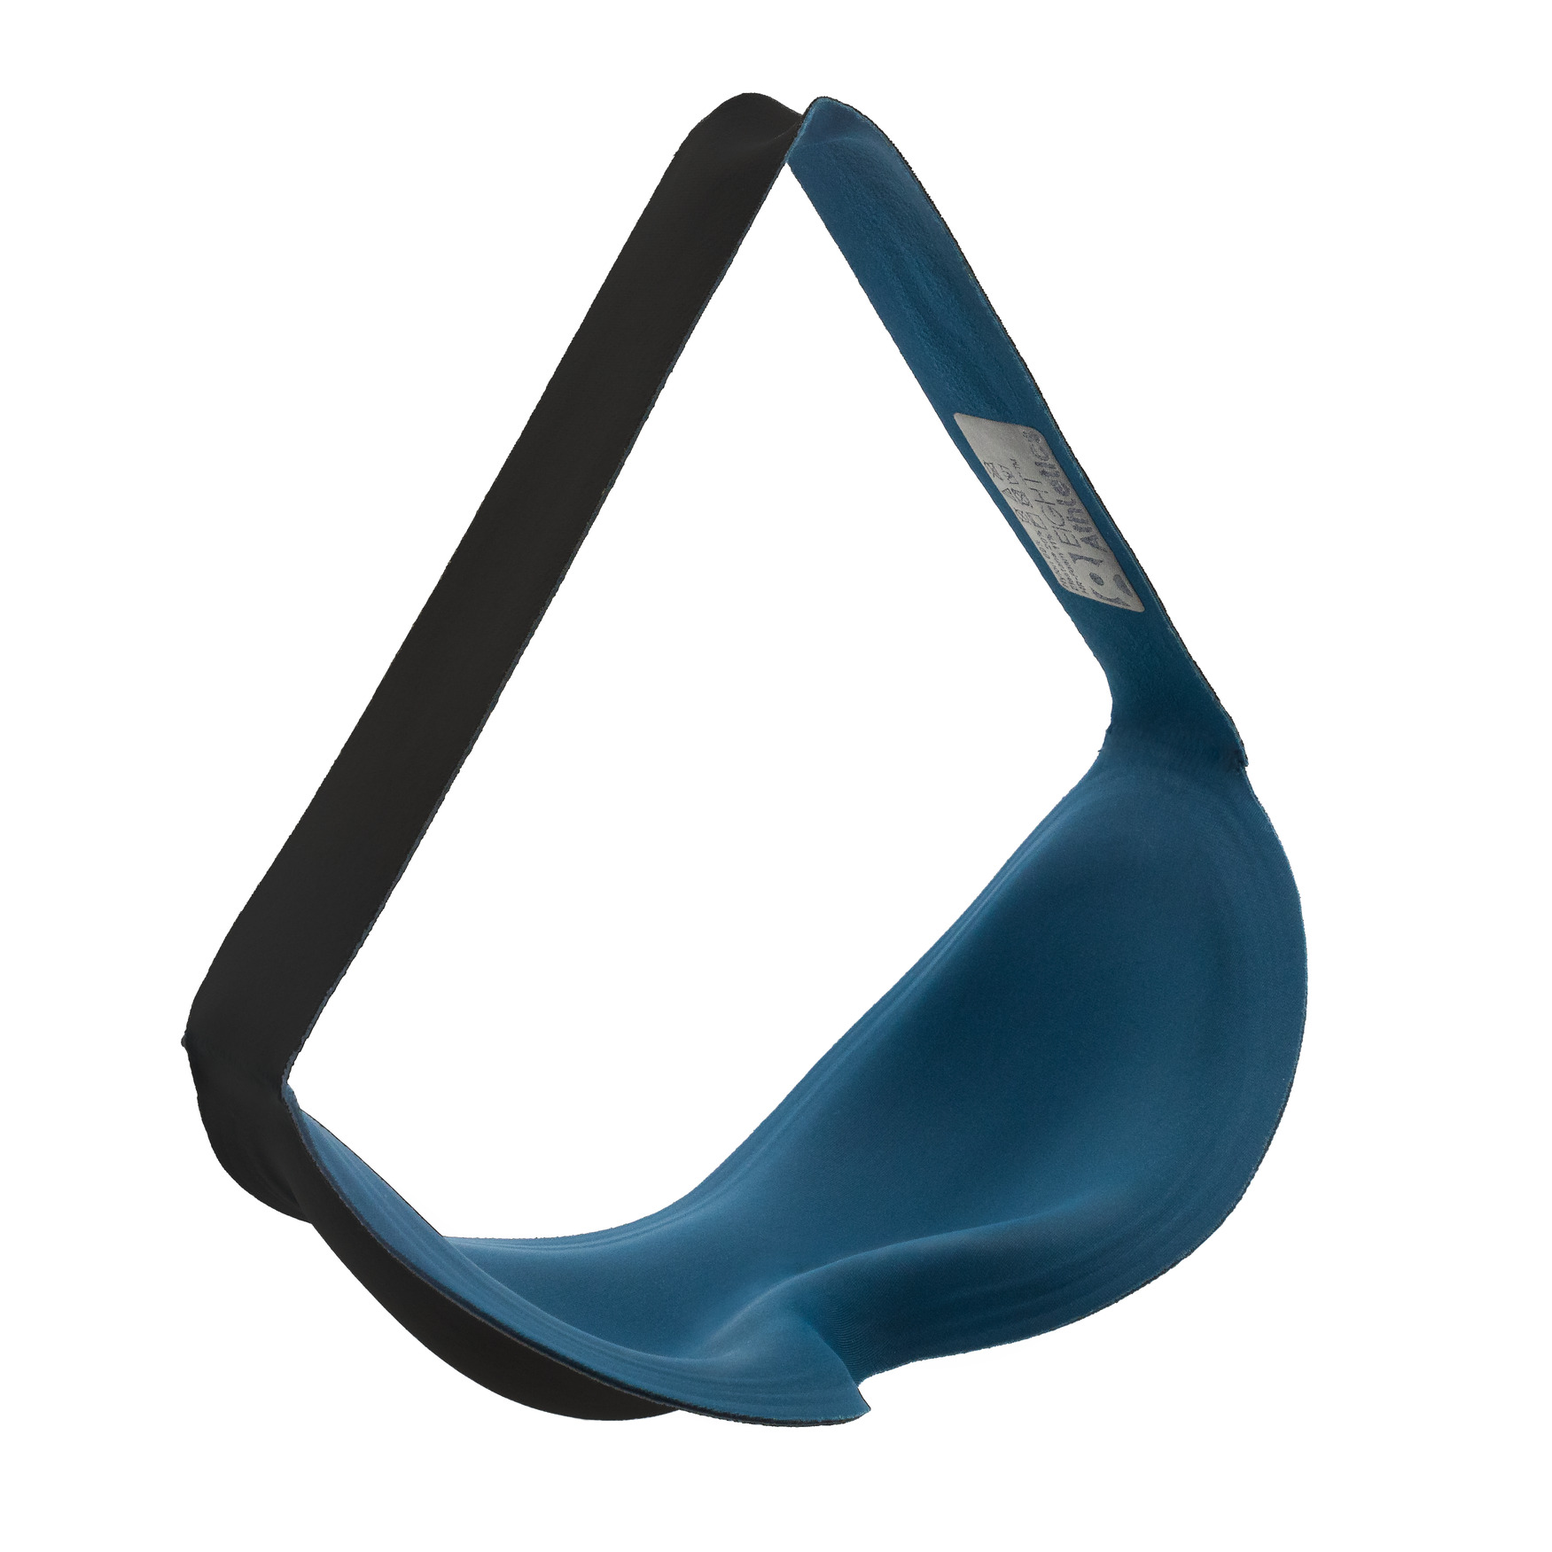
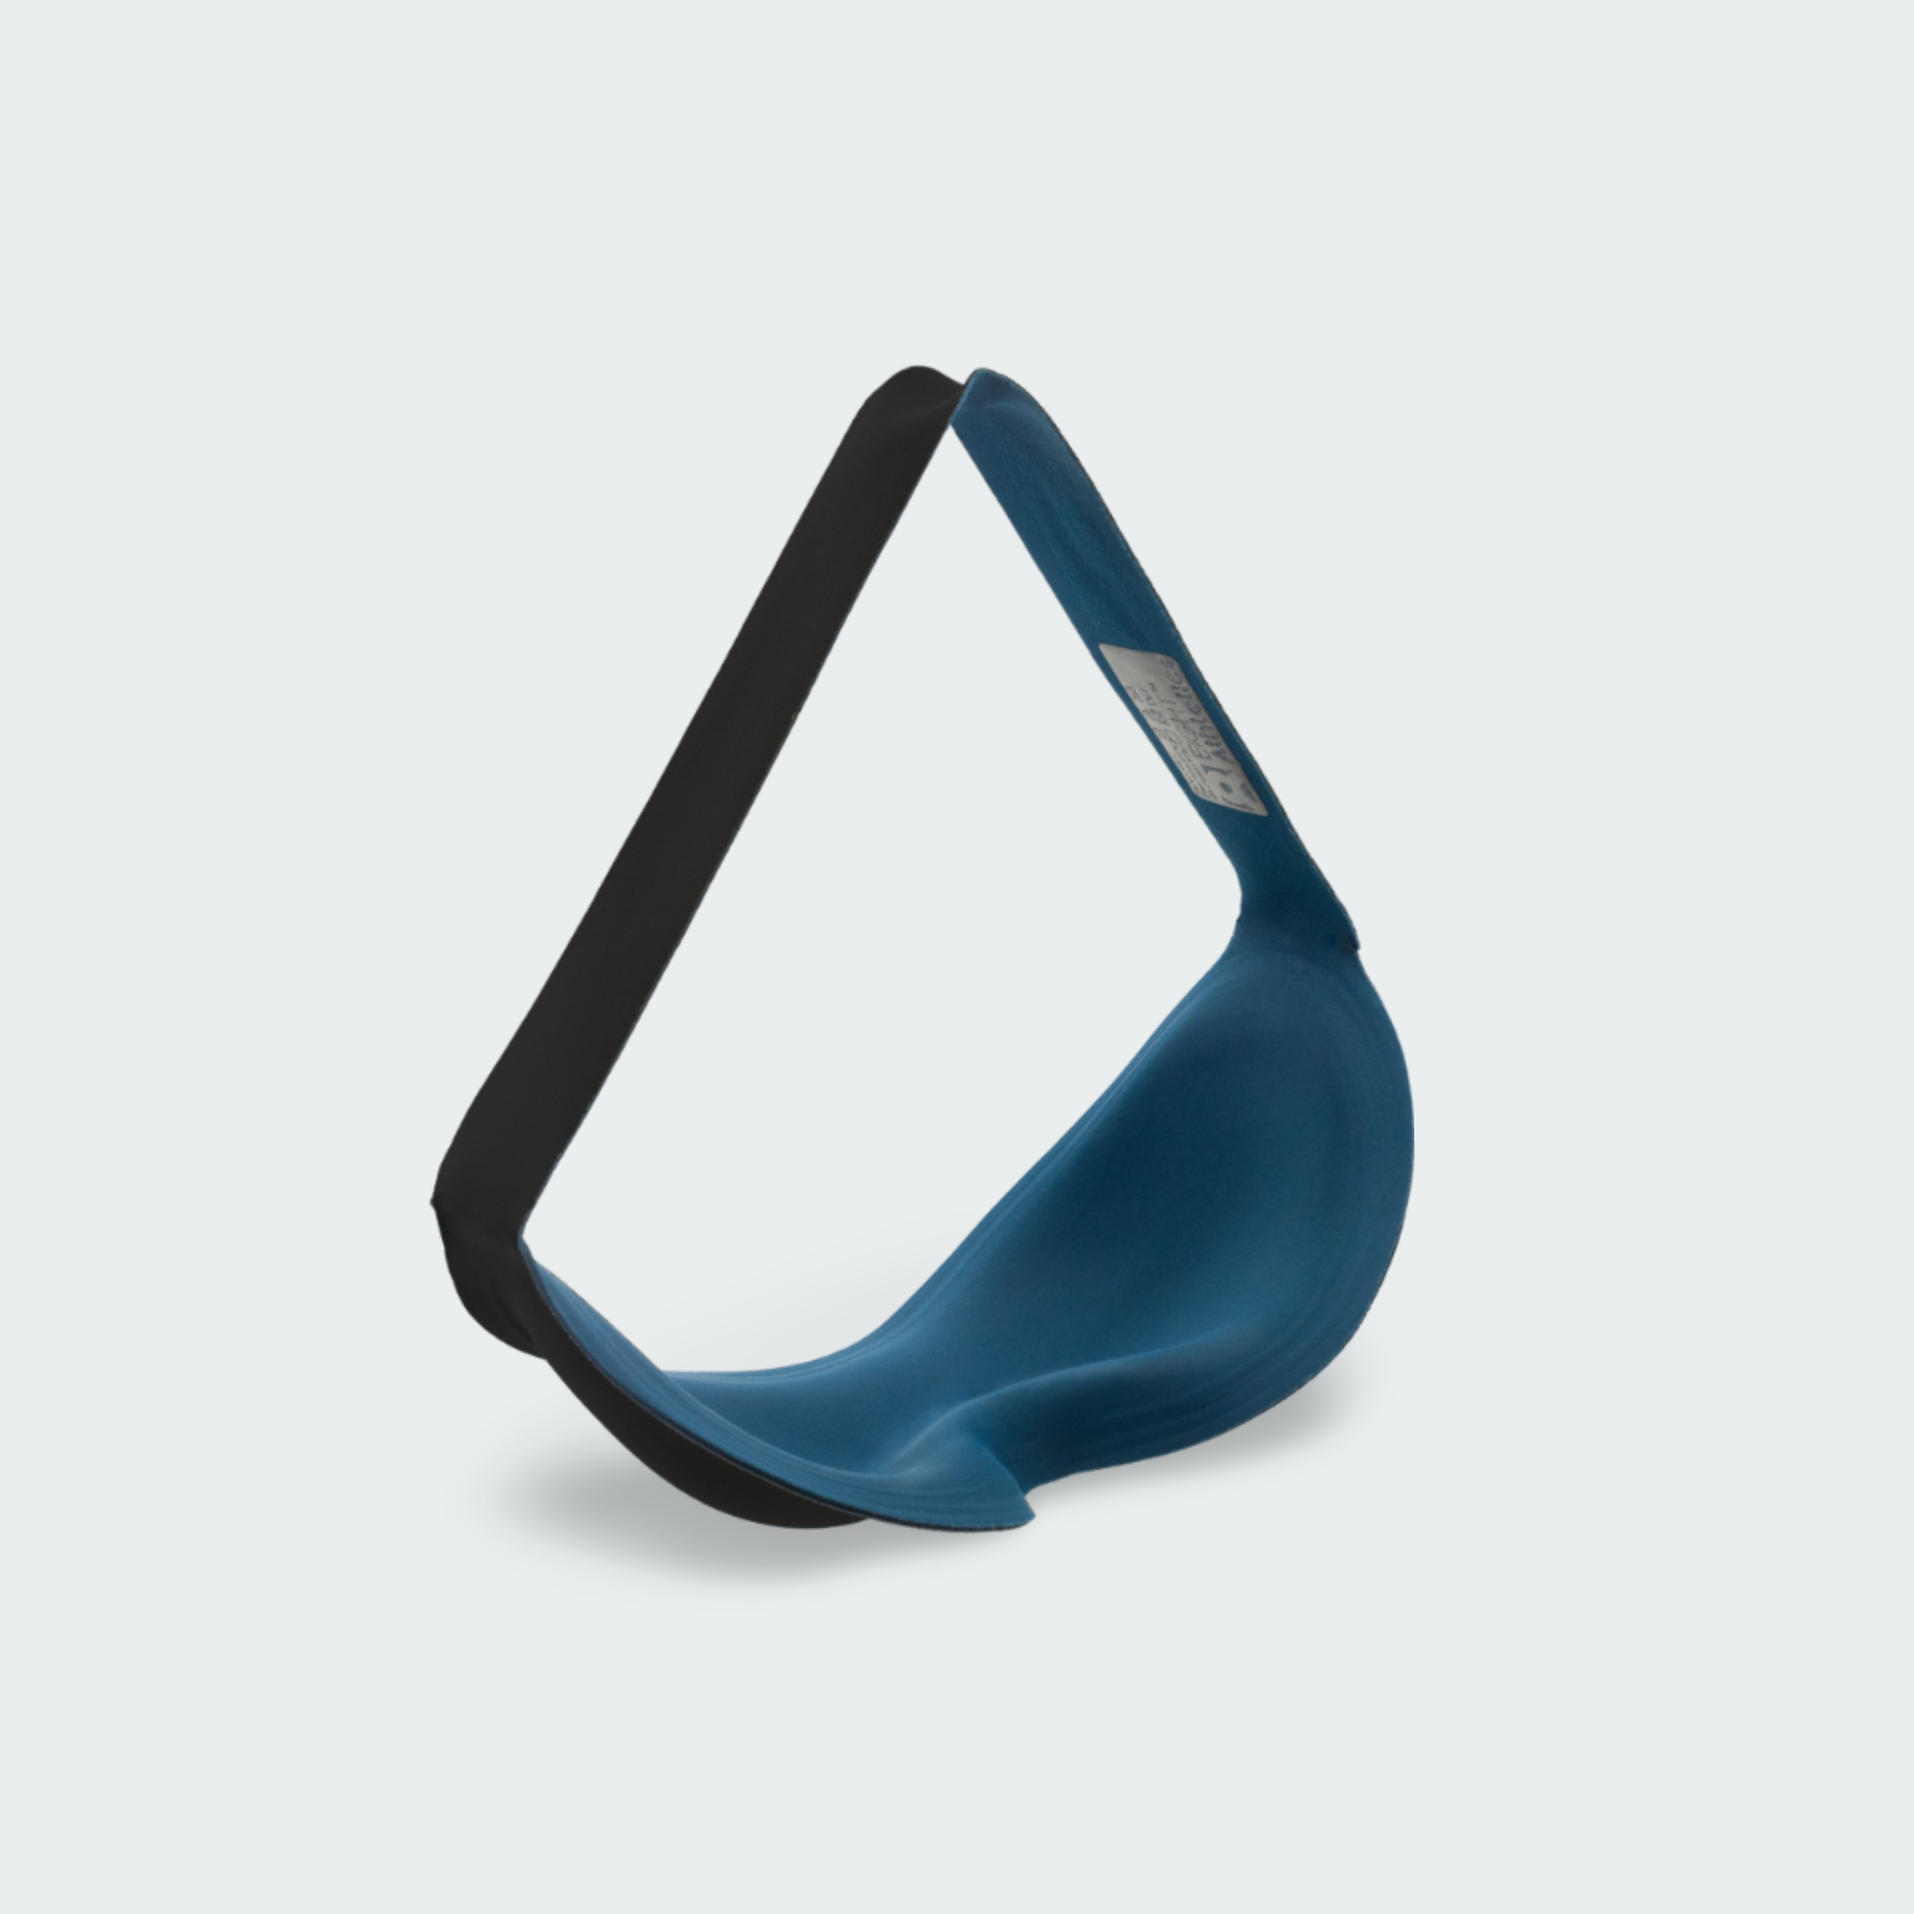
Added new improved product images, and add new background color in product page

Changed region(s): [[0.0925, 0.0617, 0.8635, 0.9252]]

diff --git a/shop-storefront/src/components/sleepMask/VideoAnimation.tsx b/shop-storefront/src/components/sleepMask/VideoAnimation.tsx
@@ -536,7 +536,8 @@ const VideoAnimation: React.FC<VideoAnimationProps> = ({product, description1, d
 
     return (
         <>
-            <div ref={wrapperRef} className="relative h-screen lg:h-[120vh]  pin-video  z-[1]" id={"smooth-content"}>
+
+            <div ref={wrapperRef} className={`relative h-screen lg:h-[120vh]  pin-video  z-[1] ${showVideo ? '' : 'black-gradient-background'}`} id={"smooth-content"} >
 
                 <div ref={headerRef}
                      className="absolute top-[18vh] w-[99vw] md:w-[99.2vw] h-[20vh] flex items-center justify-center text-[#e7ecef] font-bold text-3xl 2xs:text-5xl xs:text-7xl  lg:text-8xl  "
@@ -548,7 +549,7 @@ const VideoAnimation: React.FC<VideoAnimationProps> = ({product, description1, d
                 {(showSmallDreamText && showOneNightText) && (
 
                     <div
-                        className={`w-[99vw] md:w-[99.2vw] h-[120vh] pt-[8vh] 3xs:pt-[9.5vh] 2xs:pt-[11vh] md:pt-[5vh] lg:pt-[6vh] 3xl:pt-[10vh] px-6 2xs:px-8 sm:px-15 md:px-20 flex flex-col items-center justify-start bg-mask-black `}>
+                        className={`w-[99vw] md:w-[99.2vw] h-[120vh] pt-[8vh] 3xs:pt-[9.5vh] 2xs:pt-[11vh] md:pt-[5vh] lg:pt-[6vh] 3xl:pt-[10vh] px-6 2xs:px-8 sm:px-15 md:px-20 flex flex-col items-center justify-start black-gradient-background `}>
                         <h3 className={"header-bg-clip text-lg xs:text-xl lg:text-2xl font-sans hidden my-0 md:my-2 dark:block"}>
                             {product}
                         </h3>
@@ -631,7 +632,7 @@ const VideoAnimation: React.FC<VideoAnimationProps> = ({product, description1, d
                     </div>}
 
                     <div
-                        className={`py-4 px-2  bg-opacity-50 bg-mask-black rounded md:p-0  sm:p-4 lg:p-0`}
+                        className={`py-4 px-2  bg-opacity-50  rounded md:p-0  sm:p-4 lg:p-0 ${showVideo ? 'bg-mask-black' : 'black-gradient-background'}`}
                         style={{opacity: showVideo ? 1 : 0, visibility: showVideo ? 'visible' : 'hidden'}}>
                         <div
                             className="aspect-w-16 aspect-h-9 md:aspect-w-16 md:aspect-h-9 lg:aspect-w-4 lg:aspect-h-3 ">

diff --git a/shop-storefront/src/modules/products/components/image-gallary/ZoomableImage.tsx b/shop-storefront/src/modules/products/components/image-gallary/ZoomableImage.tsx
@@ -74,10 +74,10 @@ function ZoomableImage({src, alt}) {
                 height={700}
                 sizes={'100vw'}
                 width={700}
-                quality={92}
-                blurDataURL={"/images/placeholder-image.jpg"}
+                quality={98}
+                blurDataURL={"/images/placeholder-images.jpg"}
                 placeholder={"blur"}
-                className={`w-full bg-[##FEFEFE] h-auto object-contain transition-transform duration-300 ease-in-out fade-in'}`}
+                className={`w-full bg-[#EAEEEF] h-auto object-contain transition-transform duration-300 ease-in-out fade-in'}`}
             />
         </div>
     );

diff --git a/shop-storefront/src/css/additional-styles/other.css b/shop-storefront/src/css/additional-styles/other.css
@@ -343,7 +343,7 @@ input:checked + .slider:before {
 .swiper-slide {
     text-align: center;
     font-size: 18px;
-    background: rgb(254, 254, 254);
+    background: #EAEEEF;
     display: flex;
     justify-content: center;
     align-items: center;
@@ -491,4 +491,10 @@ input:checked + .slider:before {
 
 .logo-transition {
  transition: opacity 1.5s ease-in-out;
+}
+
+.black-gradient-background{
+    /*background-image: radial-gradient( circle 815px at 13.4% -24.8%, rgb(7, 22, 63) 2.2%, rgba(1,0,2,1) 100.2% );*/
+    background-image: radial-gradient( circle 815px at 23.4% -21.8%, rgb(9, 29, 86) 0.2%, rgb(3, 2, 3) 100.2% );
+
 }

diff --git a/shop-storefront/src/modules/products/components/image-gallary/MobileImageGallery.tsx b/shop-storefront/src/modules/products/components/image-gallary/MobileImageGallery.tsx
@@ -31,7 +31,7 @@ const MobileImageGallery = ({ images }) => {
                 {images.map((image, index) => (
                     <SwiperSlide key={image}>
                         <div className="swiper-zoom-container">
-                            <Image height={800} width={600} src={image} alt={`Slide ${index}`} className={"fade-in"} quality={90} />
+                            <Image height={800} width={600} src={image} alt={`Slide ${index}`} className={"fade-in"} quality={98} />
                         </div>
                     </SwiperSlide>
                 ))}

diff --git a/shop-storefront/src/modules/products/templates/ProductSleepMaskOneTemplate.tsx b/shop-storefront/src/modules/products/templates/ProductSleepMaskOneTemplate.tsx
@@ -82,7 +82,7 @@ const ProductSleepMaskOneTemplate: React.FC<ProductsTemplate> = ({product}) => {
     return (
         <ProductProvider product={product}>
 
-            <div className="bg-mask-black font-poppins">
+            <div className="font-poppins bg-mask-black">
                 <VideoAnimation
                     product={"Sleep Mask One"}
                     description1={"Enter a new sleep era where total blackout meets unmatched comfort. "}
